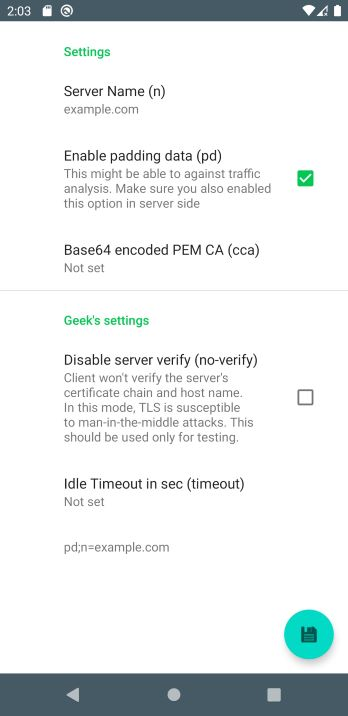
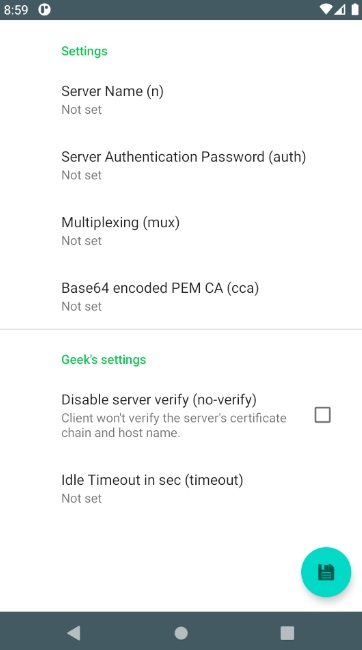
update README

diff --git a/README.md b/README.md
@@ -1,130 +1,95 @@
 # simple-tls
 
-[中文](README_zh.md) [English](README.md)
-
----
-
-Probably the simplest TLS plugin. It can:
-
-- Protect and obfuscate your connections with real TLS1.3.
-- Easily run as a SIP003 plugin and run on Android platform.
-- Send random data packets at appropriate times. This can change the timing characteristics of data packets in one connection, which can protect you against timing traffic analysis. (optional, experimental) See [documentation (Chinese only)](https://github.com/IrineSistiana/simple-tls/wiki/%E6%97%B6%E5%BA%8F%E5%A1%AB%E5%85%85(pd)%E6%A8%A1%E5%BC%8F).
+[中文](README.md) [English](README_en.md)
 
 ---
 
 - [simple-tls](#simple-tls)
-  - [How to build](#how-to-build)
-  - [Usage](#usage)
-  - [Standalone mode](#standalone-mode)
-  - [SIP003 mode](#sip003-mode)
-  - [Start a server without certificate](#start-a-server-without-certificate)
-  - [How to import CA in client](#how-to-import-ca-in-client)
+  - [参数](#参数)
+  - [SIP003模式](#sip003模式)
   - [Android](#android)
 
-## How to build
+## 参数
 
-You will need go v1.14 or later.
+```text
+      客户端监听地址               服务端监听地址
+           |                            |
+|客户端|-->|simple-tls 客户端|--TLS1.3-->|simple-tls 服务端|-->|最终目的地|
+                                        |                     |   
+                                   客户端目的地地址     服务端目的地地址  
 
-    go build
+# 通用参数
+  -b string
+      [Host:Port] 监听地址。
+  -d string
+      [Host:Port] 目的地地址。
+  -auth string
+      身份验证密码。(可选。客户端和服务端需一致。仅用于过滤扫描流量。)
 
-## Usage
+# 客户端参数
+# e.g. simple-tls -b 127.0.0.1:1080 -d your_server_ip:1080 -n your.server.name
 
-        client bind addr               server bind addr
-               |                             |
-    |client|-->|simple-tls client|--TLS1.3-->|simple-tls server|-->|final destination|
-                                             |                     |   
-                                       client dst addr       server dst addr  
+  -mux int
+      单条 TCP 连接内最大复用的连接数。(默认 0 禁用 mux)
+  -n string
+      服务器证书名。
+  -no-verify
+      客户端将不会验证服务端的证书。
+  -ca string
+      加载 PEM CA 证书文件。
+      e.g. -ca ./path/to/my.ca.cert
+  -cca string
+      从字符串加载被 base64 编码 (e.g. base64 -w 0 ./my.cert) 的 PEM CA 证书。
+      e.g. -cca VkRJW...4eGdFbz0K==
 
-    # Common arguments
-    -b string
-        [Host:Port] bind addr.
-    -d string
-        [Host:Port] destination addr.
+# 服务端参数
+# e.g. simple-tls -b 0.0.0.0:1080 -d 127.0.0.1:12345 -s -key /path/to/your/key -cert /path/to/your/cert
+# -cert 和 -key 可以同时留空，会生成一个临时证书。证书的 Subject Alternate Name 取自 `-n` 参数。
+# e.g. simple-tls -b 0.0.0.0:1080 -d 127.0.0.1:12345 -s -n my.test.domain
 
-    # Transfer mode (Client and server must have the same mode)
-    -pd
-        Enable padding-data mode. Server will send some padding data to protect against traffic analysis.
+  -s    
+      以服务端运行。
+  -cert string
+      PEM 证书路径。
+  -key string
+      PEM 密钥路径。
 
-    # Client arguments
-    -n string
-        Server certificate name.
-    -no-verify
-        Client won't verify the server's certificate chain and host name.
-    -ca string
-        Load a CA file from path.
-    -cca string
-        Load a base64 encoded PEM CA certificate from string.
+# 其他参数
 
-    # Server arguments
-    -s    
-        Run as a server.
-    -cert string
-        PEM certificate file path.
-    -key string
-        PEM key file path.
+  -cpu int
+      最多使用的cpu数。
+  -fast-open
+      启用TCP快速开启，仅支持Linux内核4.11+。
+  -t int
+      空闲超时，以秒记 (默认300)。
 
-    # Other geek's arguments
-    -cpu int
-        The maximum number of CPUs to simultaneously use.
-    -fast-open
-        Enable TCP-Fast-Open. Only available on Linux kernel 4.11+.
-    -t int
-        Idle timeout in seconds (default to 300).
+# 命令
 
-    # Helper commands
-    -gen-cert
-        Quickly generate an ECC certificate.
-    -v
-        Print out version information of the current binary.
+  -gen-cert
+      快速生成一个 Subject Alternate Name 为 `-n` 的 ECC 证书
+      e.g. simple-tls -gen-cert -n my.test.domain
+  -v
+      显示目前程序版本
+```
 
-## Standalone mode
+## SIP003模式
 
-    # server
-    simple-tls -b 0.0.0.0:1080 -d 127.0.0.1:12345 -s -key /path/to/your/key -cert /path/to/your/cert
+支持 [SIP003](https://shadowsocks.org/en/wiki/Plugin.html) 插件协议。 以 [shadowsocks-libev](https://github.com/shadowsocks/shadowsocks-libev) 为例:
 
-    # client
-    simple-tls -b 127.0.0.1:1080 -d your_server_ip:1080 -n your.server.certificates.dnsname
-
-## SIP003 mode
-
-Complies with Shadowsocks [SIP003](https://shadowsocks.org/en/wiki/Plugin.html) plugin protocol. Shadowsocks will automatically set `-d` and `-b` parameters, no need to set those manually.
-
-Take [shadowsocks-libev](https://github.com/shadowsocks/shadowsocks-libev) as an example:
-
-    ss-server -c config.json --plugin simple-tls --plugin-opts "s;key=/path/to/your/key;cert=/path/to/your/cert"
-    ss-local -c config.json --plugin simple-tls --plugin-opts "n=your.server.certificates.dnsname"
-
-## Start a server without certificate
-
-You can use `-gen-cert` to quickly generate an [ECC certificate](https://www.digicert.com/faq/ecc.htm).
-
-    simple-tls -gen-cert -n certificate.dnsname -key ./my_ecc_cert.key -cert ./my_ecc_cert.cert
-
-Or you can just start the server without `-key` and `-cert`. Server will automatically generate a temporary certificate and store it in memory.
-
-**Please note that:** In those cases, clients have to import the generated certificate as CA. See below. Else clients need to disable server certificate verification by using `-no-verify`. Not recommended because this is susceptible to man-in-the-middle attacks.
-
-## How to import CA in client
-
-You can use `-cca` or `-ca` to import a certificate or ca-bundle file as CA.
-
-`-ca` accepts a path.
-
-    simple-tls ... ... -ca ./path/to/my.ca.cert
-
-`-cca` accepts a base64 encoded certificate.
-
-    simple-tls ... ... -cca VkRJWkpCK1R1c3h...4eGdFbz0K==
+```shell
+ss-server -c config.json --plugin simple-tls --plugin-opts "s;key=/path/to/your/key;cert=/path/to/your/cert"
+ss-local -c config.json --plugin simple-tls --plugin-opts "n=your.server.certificates.dnsname"
+```
 
 ## Android
 
-simple-tls-android is a GUI plugin for [shadowsocks-android](https://github.com/shadowsocks/shadowsocks-android). You need to download and install shadowsocks-android first. It's also an open source software. Source code is available [here](https://github.com/IrineSistiana/simple-tls-android).
+simple-tls-android 是 [shadowsocks-android](https://github.com/shadowsocks/shadowsocks-android) 的GUI插件，需要先下载 shadowsocks-android。simple-tls-android 同样是开源软件，源代码在 [这里](https://github.com/IrineSistiana/simple-tls-android) 。
 
-<details><summary><code>Screenshot</code></summary>
+<details><summary><code>屏幕截图</code></summary>
 
 <br>
 
-![screenshot](/assets/simple-tls-android-screenshot.jpg)
+![截屏](/assets/simple-tls-android-screenshot.jpg)
 
 </details>
 

diff --git a/README_en.md b/README_en.md
@@ -1,0 +1,96 @@
+# simple-tls
+
+[中文](README.md) [English](README_en.md)
+
+---
+
+- [simple-tls](#simple-tls)
+  - [Usage](#usage)
+  - [SIP003 mode](#sip003-mode)
+  - [Android](#android)
+
+## Usage
+
+```text
+    client bind addr               server bind addr
+           |                             |
+|client|-->|simple-tls client|--TLS1.3-->|simple-tls server|-->|final destination|
+                                         |                     |   
+                                   client dst addr       server dst addr  
+
+# Common arguments
+  -b string
+      [Host:Port] bind addr.
+  -d string
+      [Host:Port] destination addr.
+  -auth string
+      Authentication password. (Optional. The client and server must be the same. Only used to filter scan traffic.)
+
+# Client arguments
+# e.g. simple-tls -b 127.0.0.1:1080 -d your_server_ip:1080 -n your.server.name
+
+  -mux int
+      The maximum number of multiplexed connections in a single TCP connection. (Default 0 disables mux)
+  -n string
+      Server certificate name.
+  -no-verify
+      Client won't verify the server's certificate chain and host name.
+  -ca string
+      Load a CA file from path.
+      e.g. -ca ./path/to/my.ca.cert
+  -cca string
+      Load a base64 encoded (e.g. base64 -w 0 ./my.cert) PEM CA certificate from string. 
+      e.g. -cca VkRJW...4eGdFbz0K==
+
+# Server arguments
+# e.g. simple-tls -b 0.0.0.0:1080 -d 127.0.0.1:12345 -s -key /path/to/your/key -cert /path/to/your/cert
+# -cert and -key can be left blank, a temporary certificate will be generated. The Subject Alternate Name of the certificate is taken from the `-n` parameter.
+# e.g. simple-tls -b 0.0.0.0:1080 -d 127.0.0.1:12345 -s -n my.test.domain
+
+  -s    
+      (Required) Run as a server.
+  -cert string
+      PEM certificate file path.
+  -key string
+      PEM key file path.
+
+# Other geek's arguments
+
+  -cpu int
+      The maximum number of CPUs to simultaneously use.
+  -fast-open
+      Enable TCP-Fast-Open. Only available on Linux kernel 4.11+.
+  -t int
+      Idle timeout in seconds (default to 300).
+
+# Helper commands
+
+  -gen-cert
+      Quickly generate an ECC certificate with Subject Alternate Name taken from the `-n` parameter.
+      e.g. simple-tls -gen-cert -n my.test.domain
+  -v
+      Print out version information of the current binary.
+```
+
+## SIP003 mode
+
+Complies with Shadowsocks [SIP003](https://shadowsocks.org/en/wiki/Plugin.html) plugin protocol. Shadowsocks will automatically set `-d` and `-b` parameters, no need to set those manually.
+
+```shell
+ss-server -c config.json --plugin simple-tls --plugin-opts "s;key=/path/to/your/key;cert=/path/to/your/cert"
+ss-local -c config.json --plugin simple-tls --plugin-opts "n=your.server.certificates.dnsname"
+```
+
+## Android
+
+simple-tls-android is a GUI plugin for [shadowsocks-android](https://github.com/shadowsocks/shadowsocks-android). You need to download and install shadowsocks-android first. It's also an open source software. Source code is available [here](https://github.com/IrineSistiana/simple-tls-android).
+
+<details><summary><code>Screenshot</code></summary>
+
+<br>
+
+![screenshot](/assets/simple-tls-android-screenshot.jpg)
+
+</details>
+
+---
